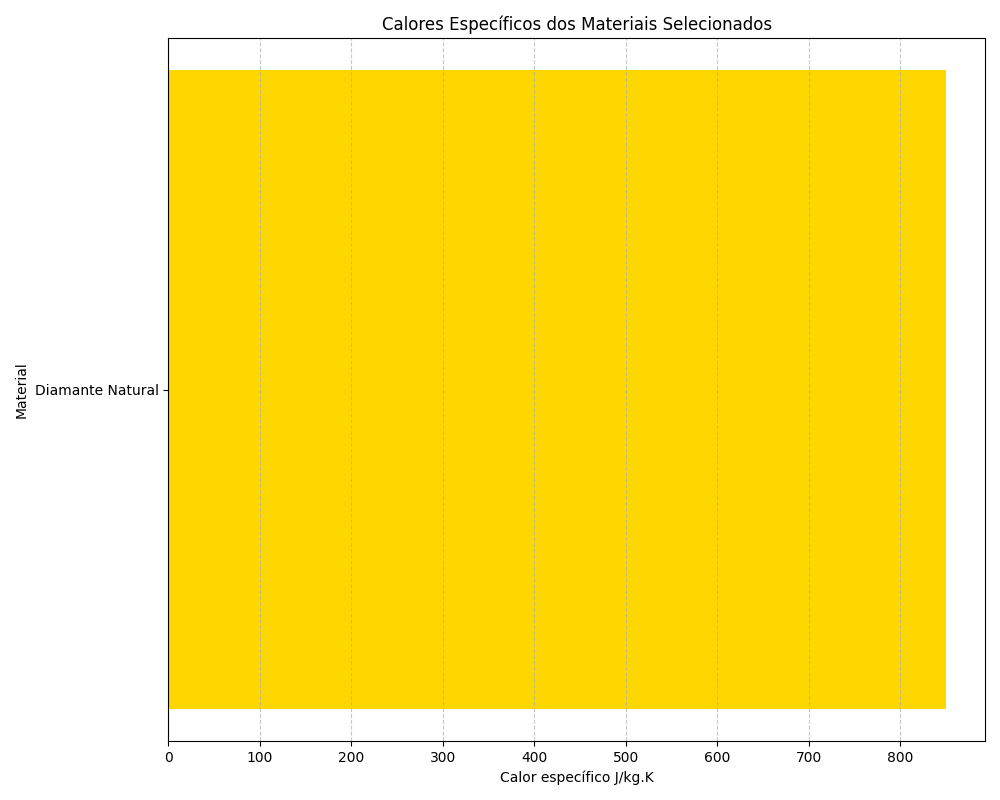
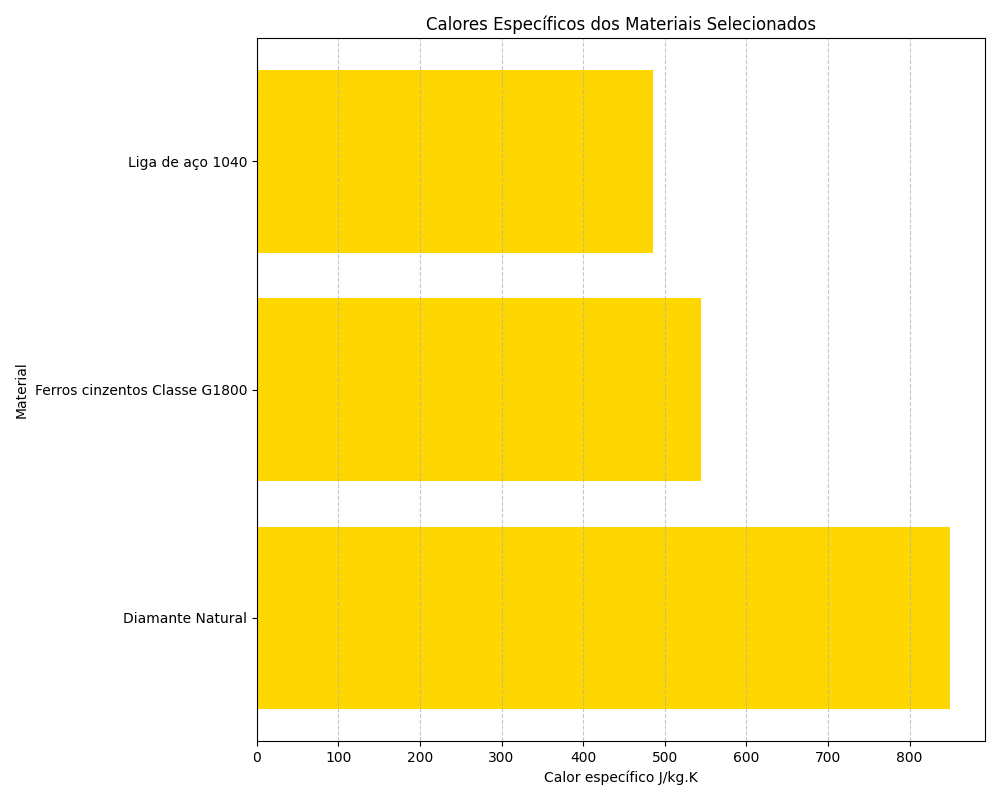
Novas bucas e formas de apresentar, app.py e form.html modificados

diff --git a/templates/form.html b/templates/form.html
@@ -13,7 +13,7 @@
 </head>
 <body>
     <div class="container mt-5">
-        <div class="col-md-3 center">
+        <div class="col-md-4 justify-content-center">
             <h3>Gráfico de Materiais</h3>
             <p>Escolha o tipo de gráfico para visualizar:</p>
         </div>
@@ -43,6 +43,14 @@
                                 aria-label="Sizing example input" 
                                 aria-describedby="elemento" value="" placeholder="Digite o Elemento 2">
                             </div>
+                        </div>
+                        <div class="col-md-1 d-flex align-items-center justify-content-center mb-3">
+                            <button class="btn btn-primary" type="button" onclick="addElement(data)">
+                                <svg xmlns="http://www.w3.org/2000/svg" width="16" height="16" fill="currentColor" class="bi bi-plus-lg" viewBox="0 0 16 16">
+                                    <path fill-rule="evenodd" d="M8 2a.5.5 0 0 1 .5.5v5h5a.5.5 0 0 1 0 1h-5v5a.5.5 0 0 1-1 0v-5h-5a.5.5 0 0 1 0-1h5v-5A.5.5 0 0 1 8 2"/>
+                                </svg>
+                            </button>
+                        </div>
                         </div>
                     </div>
                     </div>
@@ -99,6 +107,7 @@
     <script defer>
         let valorElemento1 = document.getElementById("elemento1").value;
         let valorElemento2 = document.getElementById("elemento2").value;
+        const somatorio = 2;
         const data = ["Liga de aço A36",
 "Liga de aço 1020",
 "Liga de aço 1040",
@@ -272,6 +281,39 @@ function autocomplete(inp, arr) {
     });
 }
 
+function addElement(data) {
+    const container = document.createElement("div");
+    container.className = "row mt-3 align-items-center justify-content-center";
+
+    const col = document.createElement("div");
+    col.className = "col-md-5";
+
+    const inputGroup = document.createElement("div");
+    inputGroup.className = "input-group mb-3";
+
+    const span = document.createElement("span");
+    span.className = "input-group-text";
+    span.id = "elemento";
+    span.textContent = `Elemento ${document.querySelectorAll('.input-group').length + 1}`;
+
+    const input = document.createElement("input");
+    input.type = "text";
+    input.className = "form-control";
+    input.id = `elemento${document.querySelectorAll('.input-group').length + 1}`;
+    input.name = `elemento${document.querySelectorAll('.input-group').length + 1}`;
+    input.placeholder = `Digite o Elemento ${document.querySelectorAll('.input-group').length + 1}`;
+
+    inputGroup.appendChild(span);
+    inputGroup.appendChild(input);
+    col.appendChild(inputGroup);
+    container.appendChild(col);
+
+    // Adiciona o container ao formulário
+    document.querySelector("form").appendChild(container);
+    autocomplete(input, data);
+}
+
+// addElement(data);
 autocomplete(document.getElementById("elemento1"), data);
 autocomplete(document.getElementById("elemento2"), data);
 </script>   

diff --git a/app.py b/app.py
@@ -263,10 +263,14 @@ def form():
 
 @app.route('/generate-graph', methods=['POST'])
 def generate_graph():
-    
-    elemento1 = request.form['elemento1']
-    elemento2 = request.form['elemento2']
-    materials_list = [elemento1, elemento2]
+    #Lista de materiais
+    materials_list = []
+    i = 1
+
+    # Loop para pegar todos os elementos até que não haja mais entradas
+    while f'elemento{i}' in request.form:
+        materials_list.append(request.form[f'elemento{i}'])    
+        i += 1
     
     selected_options = request.form.getlist('options')
     df = read_and_process_csv('BaseDeDados.csv')
@@ -291,7 +295,7 @@ def generate_graph():
         if 'densidade' in selected_options:
             plot_densidade(df, materials_list)
     
-    return render_template('view.html', selected_options=options)
+    return render_template('view.html', selected_options=options, materials_list=materials_list)
 
 if __name__ == '__main__':
     app.run(debug=True)
